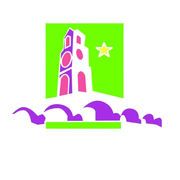
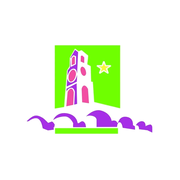
Add files via upload

Changed region(s): [[0.0556, 0.1111, 0.9167, 0.75]]

diff --git a/index.html b/index.html
@@ -55,15 +55,15 @@
     .header-banner { height: 150px; background: var(--navy); }
     .header-banner img { width: 100%; height: 100%; object-fit: cover; display: block; }
     .header-logo-wrap {
-      width: 92px; height: 92px;
-      margin: -46px auto 12px;
+      width: 100px; height: 100px;
+      margin: -50px auto 12px;
       background: #fff;
       border-radius: 50%;
       box-shadow: 0 4px 14px rgba(15, 41, 66, 0.16);
-      padding: 10px;
       position: relative;
+      overflow: hidden;
     }
-    .header-logo-wrap img { width: 100%; height: 100%; object-fit: contain; border-radius: 50%; display: block; }
+    .header-logo-wrap img { width: 100%; height: 100%; object-fit: cover; border-radius: 50%; display: block; }
     .header-title {
       margin: 0;
       font-size: 28px; line-height: 1.15; font-weight: 800;
@@ -283,7 +283,7 @@
       <img src="cabecera.jpg" width="828" height="315" alt="" />
     </div>
     <div class="header-logo-wrap">
-      <img src="logo.jpg" width="1080" height="1080" alt="Escudo de El Viso" />
+      <img src="escudo.png" width="512" height="512" alt="Escudo de El Viso" />
     </div>
     <h1 class="header-title">Agenda de El Viso</h1>
     <p class="header-subtitle">Aquí encontrarás todos los eventos, actividades y citas culturales de El Viso de los Pedroches.</p>

diff --git a/sw.js b/sw.js
@@ -1,10 +1,10 @@
-const CACHE_NAME = 'agenda-el-viso-v5';
+const CACHE_NAME = 'agenda-el-viso-v6';
 const CORE_ASSETS = [
   './',
   './index.html',
   './manifest.json',
   './cabecera.jpg',
-  './logo.jpg',
+  './escudo.png',
   './icon-192.png',
   './icon-512.png',
   './icon-maskable-192.png',

diff --git a/README.md b/README.md
@@ -7,15 +7,17 @@ Aplicación web progresiva (PWA) estática en HTML, CSS y JavaScript puro, pensa
 | Archivo | Para qué sirve |
 |---|---|
 | `index.html` | La aplicación completa: diseño, lectura del Excel, avisos, calendario y compartir. |
-| `sw.js` | Service Worker (caché `agenda-el-viso-v5`). Red primero para la página, caché si no hay conexión. |
+| `sw.js` | Service Worker (caché `agenda-el-viso-v6`). Red primero para la página, caché si no hay conexión. |
 | `manifest.json` | Permite instalar la agenda como app en el móvil. |
 | `icon-192.png`, `icon-512.png` | Iconos redondos con fondo transparente (uso normal: ordenador, accesos directos). |
 | `icon-maskable-192.png`, `icon-maskable-512.png` | Iconos cuadrados a sangre con fondo blanco y el escudo centrado (zona segura del 80 %). Android los recorta en círculo; son los que se ven en el móvil. **No deben tener fondo transparente.** |
 | `apple-touch-icon.png` | Icono para «Añadir a pantalla de inicio» en iPhone (fondo opaco). |
-| `cabecera.jpg`, `logo.jpg` | Foto de cabecera y escudo. |
+| `cabecera.jpg` | Foto de cabecera. |
+| `escudo.png` | Escudo de la cabecera, ya centrado y con el tamaño correcto dentro del círculo. |
+| `logo.jpg` | Escudo original (ya no lo usa la web; se conserva como archivo de origen). |
 | `.nojekyll` | Hace que GitHub Pages sirva los archivos tal cual, sin Jekyll. |
 
-> Cuando cambies `index.html` u otros archivos, sube también `sw.js` con el número de versión de la caché aumentado (`v5` → `v6`) para que los móviles reciban el cambio al instante.
+> Cuando cambies `index.html` u otros archivos, sube también `sw.js` con el número de versión de la caché aumentado (`v6` → `v7`) para que los móviles reciban el cambio al instante.
 
 ## Funciones
 
